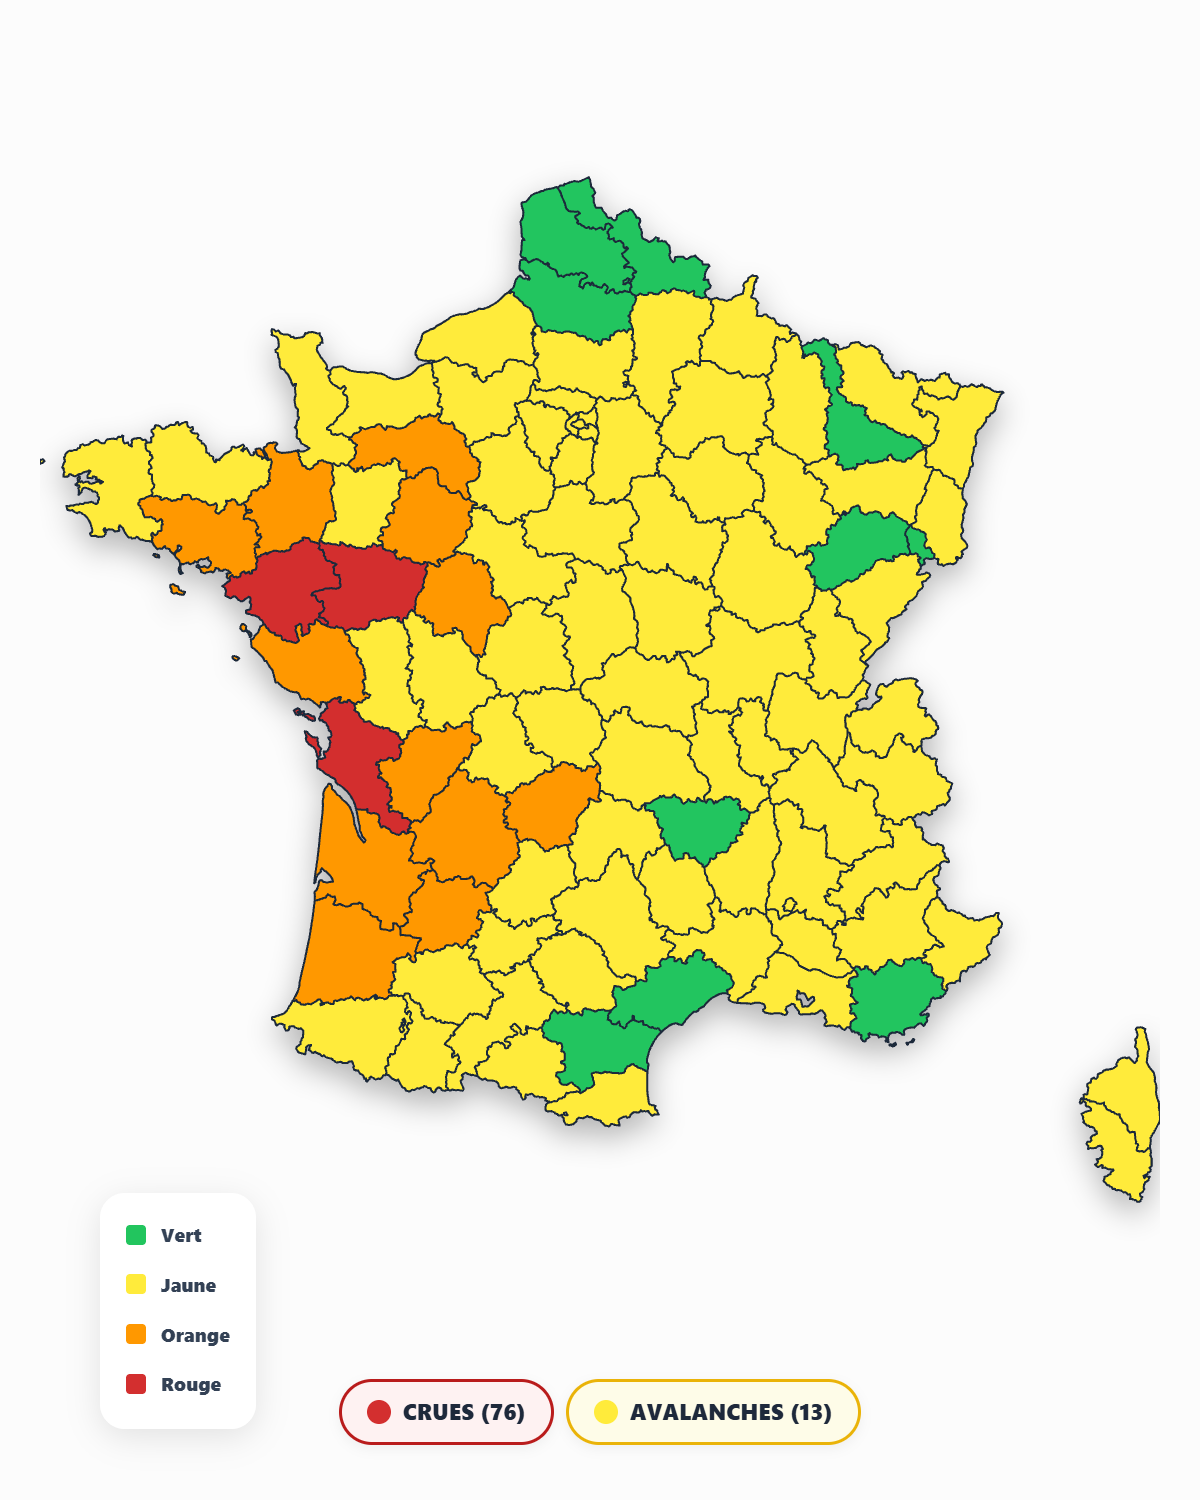
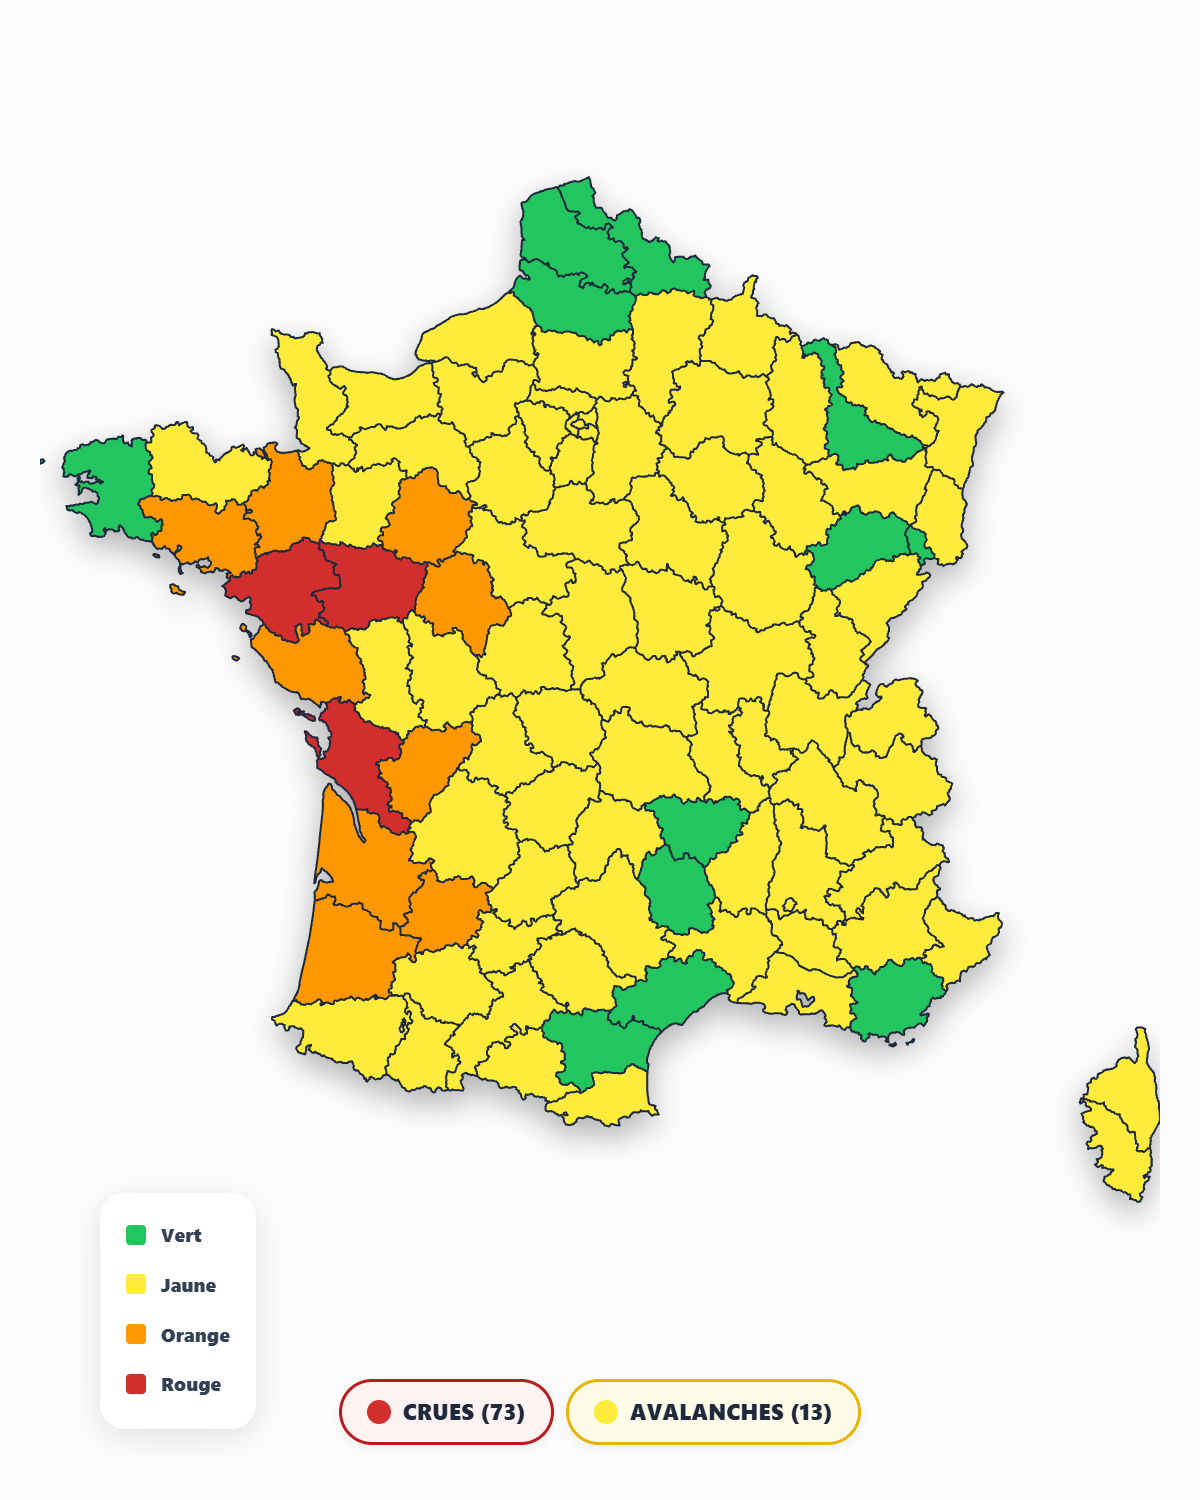
fix: correct vigilance counts and distinguish levels in social card

diff --git a/src/modules/vigilance/VigilanceSocialCard.jsx b/src/modules/vigilance/VigilanceSocialCard.jsx
@@ -11,21 +11,43 @@ const OFFICIAL_COLORS = {
 
 const VigilanceSocialCard = ({ geoData, vigilanceData, period, lastUpdate, phenoms }) => {
     // 1. Calcul du niveau max et phénomènes actifs (Exclure Andorre et les codes globaux)
-    const activeVigilance = vigilanceData.filter(d =>
-        d.period === period &&
-        d.dep_code &&
-        !['FRA', '99', 'METRO', '00'].includes(d.dep_code.toString().trim())
-    );
+    // On s'assure de n'avoir qu'un seul enregistrement par département (le plus récent) pour éviter les doublons dans les comptes
+    const activeVigilanceMap = new Map();
+    vigilanceData.forEach(d => {
+        const depCode = d.dep_code?.toString().trim();
+        if (d.period === period && depCode && !['FRA', '99', 'METRO', '00'].includes(depCode)) {
+            const existing = activeVigilanceMap.get(depCode);
+            // On garde l'entrée la plus récente si doublons en base
+            if (!existing || new Date(d.last_update) > new Date(existing.last_update)) {
+                activeVigilanceMap.set(depCode, d);
+            }
+        }
+    });
+    const activeVigilance = Array.from(activeVigilanceMap.values());
     const maxLevel = Math.max(...activeVigilance.map(d => d.level || 1), 1);
 
     // Trouver les phénomènes en vigilance (>= 2) globalement avec décompte
-    const activePhenomsList = phenoms.map(p => {
+    // On distingue désormais chaque niveau (Rouge, Orange, Jaune) séparément pour un même phénomène
+    const activePhenomsList = [];
+    phenoms.forEach(p => {
         const levels = activeVigilance.map(d => d.risks?.find(r => r.id === p.id)?.level || 1);
-        const maxLvl = Math.max(...levels);
-        const count = levels.filter(lvl => lvl >= 2).length;
-        return { ...p, maxLvl, count };
-    }).filter(p => p.maxLvl >= 2)
-        .sort((a, b) => b.maxLvl - a.maxLvl); // Priorité aux plus hauts niveaux
+        [4, 3, 2].forEach(lvl => {
+            const count = levels.filter(l => l === lvl).length;
+            if (count > 0) {
+                activePhenomsList.push({
+                    ...p,
+                    maxLvl: lvl,
+                    count: count,
+                    uniqueKey: `${p.id}-${lvl}`
+                });
+            }
+        });
+    });
+    // Tri : d'abord par niveau (Rouge > Orange > Jaune), puis par ID de phénomène
+    activePhenomsList.sort((a, b) => {
+        if (b.maxLvl !== a.maxLvl) return b.maxLvl - a.maxLvl;
+        return parseInt(a.id) - parseInt(b.id);
+    });
 
     // Phénomène principal pour le titre
     const mainPhenomName = activePhenomsList.length > 0 ? activePhenomsList[0].name.toUpperCase() : "MÉTÉOROLOGIQUE";
@@ -113,15 +135,20 @@ const VigilanceSocialCard = ({ geoData, vigilanceData, period, lastUpdate, pheno
                         </div>
                     </div>
 
-                    {/* 🏷️ PHÉNOMÈNES EN DESSOUS DE LA CARTE */}
+                    {/* 🏷️ PHÉNOMÈNES EN BAS (Footer de la carte) */}
                     <div className="social-phenoms-footer-alt">
                         <div className="phenoms-pills-row">
-                            {activePhenomsList.map(p => (
-                                <div key={p.id} className={`status-pill-new lvl-${p.maxLvl}`}>
-                                    <span className="pill-dot" style={{ backgroundColor: OFFICIAL_COLORS[p.maxLvl] }}></span>
-                                    <span className="pill-text">{p.name.toUpperCase()} ({p.count})</span>
-                                </div>
-                            ))}
+                            {activePhenomsList.map(p => {
+                                const colorName = p.maxLvl === 4 ? "ROUGE" : p.maxLvl === 3 ? "ORANGE" : "JAUNE";
+                                return (
+                                    <div key={p.uniqueKey} className={`status-pill-new lvl-${p.maxLvl}`}>
+                                        <span className="pill-dot" style={{ backgroundColor: OFFICIAL_COLORS[p.maxLvl] }}></span>
+                                        <span className="pill-text">
+                                            {p.name.toUpperCase()} {colorName} <span className="pill-count">({p.count})</span>
+                                        </span>
+                                    </div>
+                                );
+                            })}
                         </div>
                     </div>
                 </div>

diff --git a/src/modules/vigilance/VigilanceFrance.css b/src/modules/vigilance/VigilanceFrance.css
@@ -1062,12 +1062,10 @@
 
 /* 🏷️ NOUVEAU PIED DE PAGE PHÉNOMÈNES */
 .social-phenoms-footer-alt {
-    padding: 0px 30px 15px 30px;
-    background: transparent;
-    /* Fond transparent pour voir la carte derrière si besoin */
-    border: none;
-    margin-top: -100px;
-    /* Remontée de 60px à 100px pour un effet plus marqué */
+    padding: 30px;
+    background: #ffffff;
+    border-top: 2px solid #f1f5f9;
+    margin-top: 0;
     position: relative;
     z-index: 100;
 }
@@ -1091,13 +1089,13 @@
 
 .status-pill-new {
     background: #ffffff;
-    border: 3px solid #e2e8f0;
-    padding: 12px 25px;
+    border: 2px solid #e2e8f0;
+    padding: 10px 20px;
     border-radius: 50px;
     display: flex;
     align-items: center;
-    gap: 12px;
-    box-shadow: 0 4px 12px rgba(0, 0, 0, 0.05);
+    gap: 10px;
+    box-shadow: 0 4px 6px rgba(0, 0, 0, 0.05);
 }
 
 .status-pill-new.lvl-4 {
@@ -1116,9 +1114,14 @@
 }
 
 .status-pill-new .pill-text {
-    font-size: 1.4rem;
-    font-weight: 900;
+    font-size: 1.2rem;
+    font-weight: 800;
     color: #1e293b;
+}
+
+.status-pill-new .pill-count {
+    color: #64748b;
+    font-weight: 700;
 }
 
 /* 📅 DATE MAJ BAS GAUCHE */